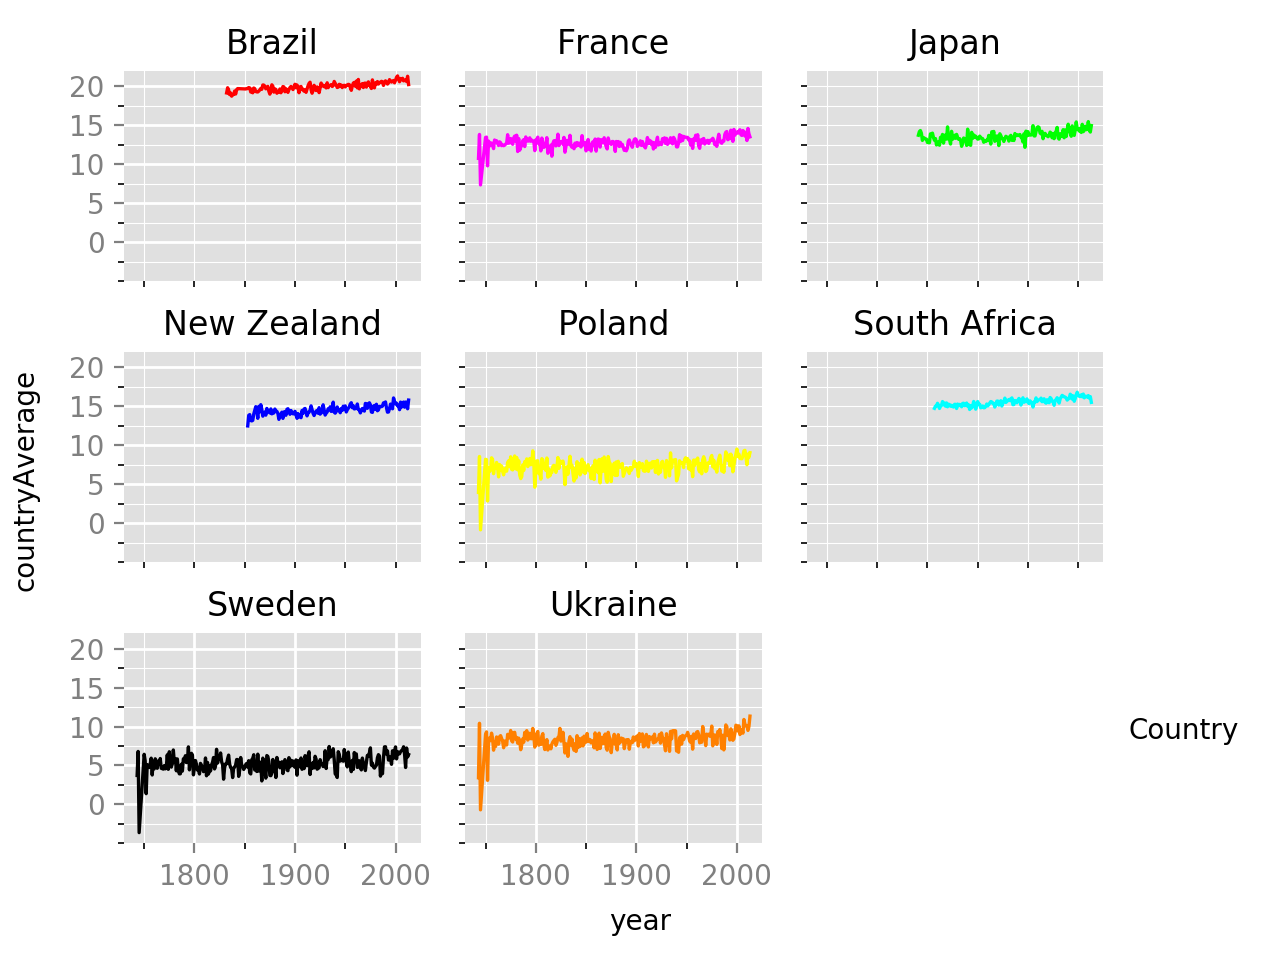
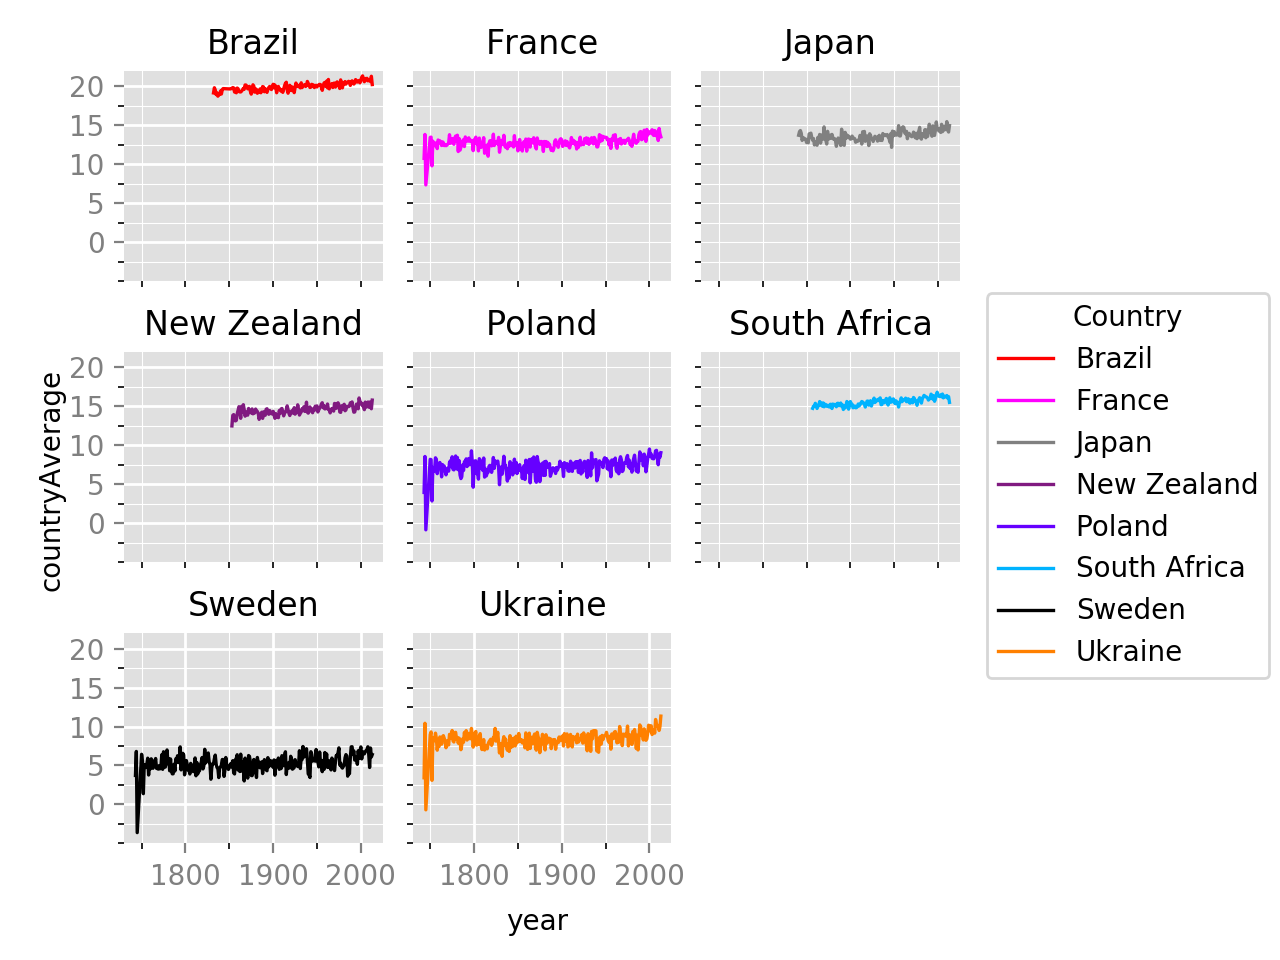
5a

diff --git a/plot_5a.py b/plot_5a.py
@@ -2,7 +2,6 @@ import matplotlib.pyplot as plt
 from utils import import_data_4, save_plot
 import numpy as np
 
-
 data = import_data_4()
 years, averages = [], []
 for i in range(8):
@@ -16,24 +15,23 @@ for i in range(len(data)):
             averages[j].append(data[i][j])
 
 country_codes = ['Brazil', 'France', 'Japan', 'New Zealand', 'Poland', 'South Africa', 'Sweden', 'Ukraine']
-colors = [(1,0,0), (1,0,1), (0,1,0), (0,0,1), (1,1,0), (0,1,1), (0,0,0), (1,0.5,0)]
+colors = [(1,0,0), (1,0,1), (0.5,0.5,0.5), (0.5,0.1,0.5), (0.4,0,1), (0,0.7,1), (0,0,0), (1,0.5,0)]
 
 fig, ax = plt.subplots(3, 3)
-ax[-1, 0].set_xlabel('', color=(0, 0, 0, 0))
-ax[-1, 0].set_ylabel('', color=(0, 0, 0, 0))
-fig.text(0.5, 0.04, 'year', va='center', ha='center')
-fig.text(0.02, 0.5, 'countryAverage', va='center', ha='center', rotation='vertical')
 
+ax[-1, 0].set_xlabel('.', color=(0, 0, 0, 0))
+ax[-1, 0].set_ylabel('.', color=(0, 0, 0, 0))
+fig.text(0.42, 0.04, 'year', va='center', ha='center')
+fig.text(0.04, 0.5, 'countryAverage', va='center', ha='center', rotation='vertical')
 
-ax[0,0].plot(years[0], averages[0], linewidth=1.2, label=country_codes[0], color=colors[0])
-ax[0,1].plot(years[1], averages[1], linewidth=1.2, label=country_codes[1], color=colors[1])
-ax[0,2].plot(years[2], averages[2], linewidth=1.2, label=country_codes[2], color=colors[2])
-ax[1,0].plot(years[3], averages[3], linewidth=1.2, label=country_codes[3], color=colors[3])
-ax[1,1].plot(years[4], averages[4], linewidth=1.2, label=country_codes[4], color=colors[4])
-ax[1,2].plot(years[5], averages[5], linewidth=1.2, label=country_codes[5], color=colors[5])
-ax[2,0].plot(years[6], averages[6], linewidth=1.2, label=country_codes[6], color=colors[6])
-ax[2,1].plot(years[7], averages[7], linewidth=1.2, label=country_codes[7], color=colors[7])
-
+plot1 = ax[0,0].plot(years[0], averages[0], linewidth=1.2, label=country_codes[0], color=colors[0])
+plot2 = ax[0,1].plot(years[1], averages[1], linewidth=1.2, label=country_codes[1], color=colors[1])
+plot3 = ax[0,2].plot(years[2], averages[2], linewidth=1.2, label=country_codes[2], color=colors[2])
+plot4 = ax[1,0].plot(years[3], averages[3], linewidth=1.2, label=country_codes[3], color=colors[3])
+plot5 = ax[1,1].plot(years[4], averages[4], linewidth=1.2, label=country_codes[4], color=colors[4])
+plot6 = ax[1,2].plot(years[5], averages[5], linewidth=1.2, label=country_codes[5], color=colors[5])
+plot7 = ax[2,0].plot(years[6], averages[6], linewidth=1.2, label=country_codes[6], color=colors[6])
+plot8 = ax[2,1].plot(years[7], averages[7], linewidth=1.2, label=country_codes[7], color=colors[7])
 
 def background(ax, label, xticks=0, yticks=0):
     ax.set_title(label)
@@ -66,8 +64,6 @@ def background(ax, label, xticks=0, yticks=0):
     if yticks == 0:
         ax.set_yticks([])
 
-
-
 background(ax[0,0], country_codes[0], yticks=1)
 background(ax[0,1], country_codes[1])
 background(ax[0,2], country_codes[2])
@@ -85,11 +81,11 @@ ax[2,2].grid(False)
 ax[2,2].set_xticks([])
 ax[2,2].set_yticks([])
 
-fig.get_axes()
-
-
 plt.tight_layout()
+plt.subplots_adjust(right=0.75)
 
-
+plots = plot1+plot2+plot3+plot4+plot5+plot6+plot7+plot8
+labels = [plot.get_label() for plot in plots]
+plt.legend(plots, labels, loc='center left', bbox_to_anchor=(1.05, 1.7), title='Country')
 
 save_plot('5a')
